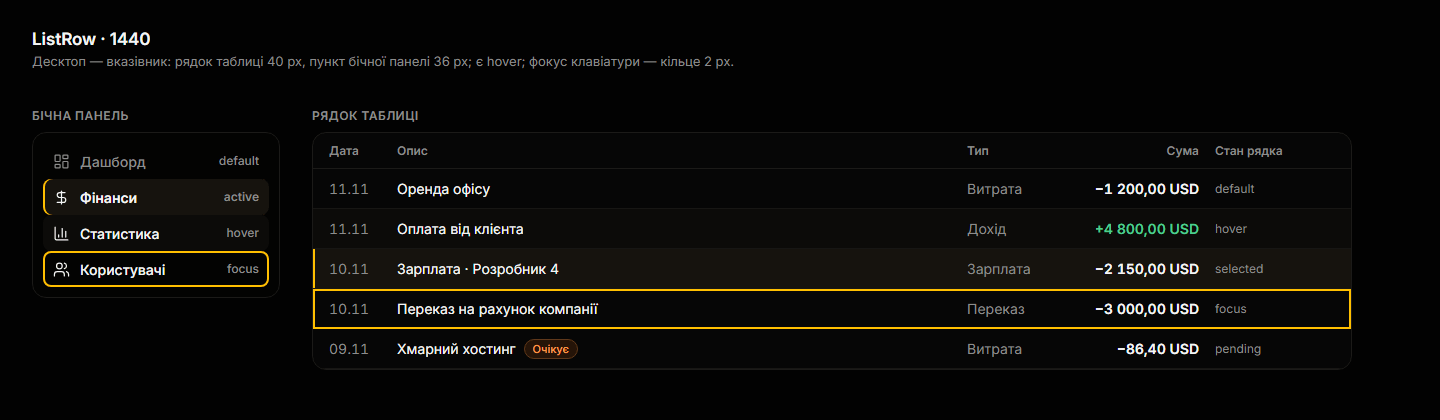
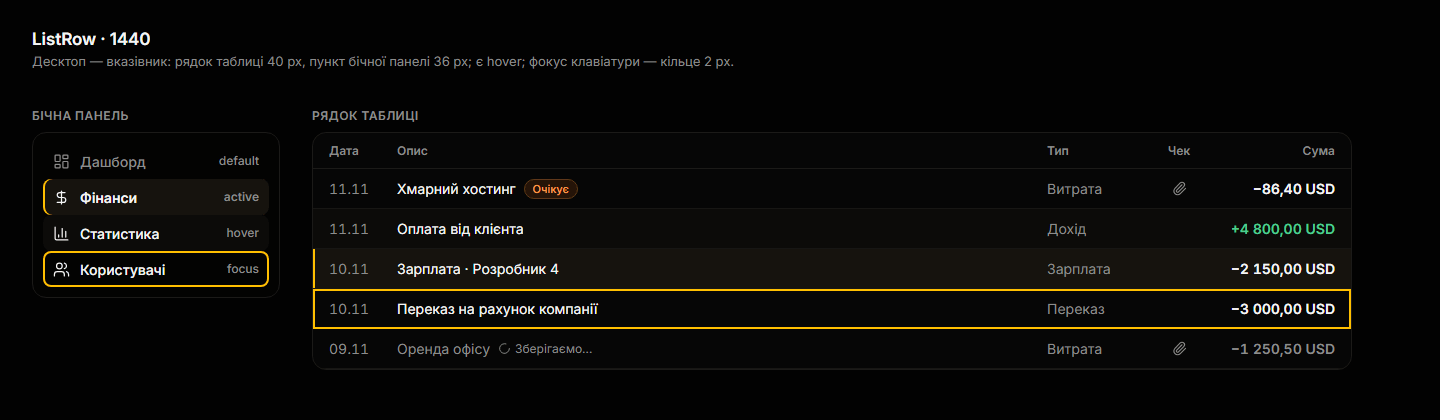
wip: docs(design): desktop table states, council r1 rules and ledger

diff --git a/docs/design/screens/_foundation/primitives-v2.md b/docs/design/screens/_foundation/primitives-v2.md
@@ -509,7 +509,7 @@ instant, sheet 280 ms up / 150 ms down, desktop 150 ms crossfade, reduced motion
 
 ## 8. Frames (all PNG under `assets/primitives-v2/`)
 
-91 frames; phones and component crops render at 2×, full 768 / 1024 / 1440 screens and the storyboard at 1×. Every
+115 frames; phones and component crops render at 2×, full 768 / 1024 / 1440 screens and the storyboard at 1×. Every
 PNG is ≤ 400 KB.
 
 | Frame                                     | Viewport (CSS px) | PNG (px)    |  KB | Round             |
@@ -605,6 +605,30 @@ PNG is ≤ 400 KB.
 | `ptr-done-375`                            | 375 × 480         | 750 × 960   |  30 | re-rendered (R12) |
 | `ptr-pulling-375`                         | 375 × 480         | 750 × 960   |  26 | re-rendered (R12) |
 | `ptr-refreshing-375`                      | 375 × 480         | 750 × 960   |  25 | re-rendered (R12) |
+| `sheet-panel-1920`                        | 1920 × 1080       | 1920 × 1080 |  73 | new (council r1)  |
+| `sheet-confirm-dialog-768`                | 768 × 1024        | 768 × 1024  |  42 | new (council r1)  |
+| `sheet-dirty-close-375`                   | 375 × 812         | 750 × 1624  |  33 | new (council r1)  |
+| `picker-popover-768`                      | 768 × 1024        | 768 × 1024  |  45 | new (council r1)  |
+| `picker-combobox-1440`                    | 1440 × 900        | 1440 × 900  |  64 | new (council r1)  |
+| `datepicker-sheet-375`                    | 375 × 812         | 750 × 1624  |  33 | new (council r1)  |
+| `datepicker-popover-768`                  | 768 × 1024        | 768 × 1024  |  36 | new (council r1)  |
+| `datepicker-popover-1440`                 | 1440 × 900        | 1440 × 900  |  46 | new (council r1)  |
+| `banner-stack-375`                        | 375 × 812         | 750 × 1624  |  56 | new (council r1)  |
+| `banner-stack-768`                        | 768 × 1024        | 768 × 1024  |  33 | new (council r1)  |
+| `banner-stack-1440`                       | 1440 × 900        | 1440 × 900  |  38 | new (council r1)  |
+| `state-empty-768`                         | 768 × 1024        | 768 × 1024  |  19 | new (council r1)  |
+| `state-error-768`                         | 768 × 1024        | 768 × 1024  |  20 | new (council r1)  |
+| `state-empty-1440`                        | 1440 × 900        | 1440 × 900  |  26 | new (council r1)  |
+| `state-error-1440`                        | 1440 × 900        | 1440 × 900  |  26 | new (council r1)  |
+| `alert-session-expired-1440`              | 1440 × 900        | 1440 × 900  |  44 | new (council r1)  |
+| `state-empty-readonly-375`                | 375 × 812         | 750 × 1624  |  22 | new (council r1)  |
+| `formfield-error-320`                     | 320 × 568         | 640 × 1136  |  16 | new (council r1)  |
+| `toast-undo-320`                          | 320 × 568         | 640 × 1136  |  41 | new (council r1)  |
+| `chart-768`                               | 768 × 1024        | 768 × 1024  |  20 | new (council r1)  |
+| `list-footer-768`                         | 768 × 1024        | 768 × 1024  |  34 | new (council r1)  |
+| `list-footer-1440`                        | 1440 × 900        | 1440 × 900  |  61 | new (council r1)  |
+| `row-menu-768`                            | 768 × 1024        | 768 × 1024  |  42 | new (council r1)  |
+| `detail-readonly-1000`                    | 1000 × 800        | 1000 × 800  |  45 | new (council r1)  |
 
 Contact sheets: `_contact-sheet.png` (phones), `_contact-sheet-wide.png` (768 / 1024 / 1440 and boards),
 `_contact-sheet-detail.png` (`chart-desktop` and `transition-storyboard` at native size).
@@ -666,3 +690,267 @@ Re-render: `node assets/src/render.mjs primitives [filter]`, then `assets/src/co
 - The 768 / 1440 toast, upload pill and skeleton frames show placement and metrics; the screen specs own
   the content.
 - The board's `M` key and the `minmax(180px, 1fr)` column capped at 280 px are settled (council R11); the interviews screen spec only places them.
+
+## 12. Council r1 rules
+
+Rules added in the council r1 fix round. Each names its finding id; the ledger below maps every id.
+
+### Picker ≥ 640 (F0-13)
+
+- **< 640:** PickerSheet (§2). **≥ 640:** a popover anchored under the field or chip, never a sheet.
+- **≤ 7 options:** a listbox with no search; rows 44 px under a coarse pointer, 36 px under a fine one
+  (`picker-popover-768`). **> 7 options:** a combobox with a search field on top; the match is bold; a
+  count line «8 з 12»; a multi-select footer «Вибрано: 1» / «Очистити» (`picker-combobox-1440`).
+- **One kind pill + picker primitive:** an unset filter chip is dashed «+ Проєкт»; once set it is a
+  solid chip «Проєкт: Альфа» (`--yellow-subtle`) with `aria-expanded` while its picker is open.
+- Keyboard: ↑ / ↓ move, Enter picks, Esc closes and returns focus to the trigger; a listbox takes
+  type-ahead. Foundation §8 holds the container rule by width.
+
+### DateField (F0-14)
+
+- A typed input `ДД.ММ.РРРР` with a trailing calendar button; the field is `role="combobox"` with
+  `aria-haspopup="dialog"`. A typed date is checked on blur; the calendar opens on the typed month.
+- Calendar: Monday first, today as a ring, the selected day filled `--primary`; «Сьогодні» picks today.
+- **Phone:** a sheet with 44 px day cells; picking a day closes the sheet («Вибір дня закриває
+  аркуш», `datepicker-sheet-375`). **Tablet:** a popover with 44 px cells over the panel
+  (`datepicker-popover-768`). **Desktop:** a popover with 36 px cells (`datepicker-popover-1440`).
+- Month-only periods keep `ui/month-picker.tsx` (shell-v2 migration map).
+
+### Banner stack (F0-15)
+
+- **Slot:** phone, under the top bar and above the large title (`banner-stack-375`); tablet, at the top
+  of the list pane (`banner-stack-768`); desktop, above the page toolbar inside main
+  (`banner-stack-1440`). The banners push content down; they never float over it.
+- **Order:** impersonation is pinned first; the others follow newest first (offline, session, terms of
+  service). **Two show**; the rest fold into one 44 px button «Ще {n}: {title of the newest folded}» /
+  «Показати» with `aria-expanded`, which expands in place.
+- **Colour:** a banner never uses the yellow unread dot. Where the navigation marks something that needs
+  action, it uses the red needs-attention dot (`--destructive`), the same dot as a money draft.
+- Under impersonation every class draws the impersonated role's navigation and pages (HR in the frames).
+
+### System states per class (F0-16)
+
+| State                                   | Phone (< 640)                                 | Tablet (640–1023)                                                   | Desktop (≥ 1024)                          |
+| --------------------------------------- | --------------------------------------------- | ------------------------------------------------------------------- | ----------------------------------------- |
+| Loading                                 | `skeleton-mobile-375`                         | `skeleton-768`                                                      | `skeleton-1440`, `skeleton-table-desktop` |
+| Empty                                   | `state-empty-375`                             | `state-empty-768`                                                   | `state-empty-1440`                        |
+| Empty, role without create              | `state-empty-readonly-375`                    | Rule: the same block, no instruction                                | Rule: the same block, no instruction      |
+| Load error                              | `state-error-375`                             | `state-error-768`                                                   | `state-error-1440`                        |
+| Offline                                 | `state-offline-375`                           | `banner-stack-768`                                                  | `banner-stack-1440`                       |
+| Impersonation                           | `state-impersonation-375`                     | `banner-stack-768`                                                  | `banner-stack-1440`                       |
+| Session expired                         | `alert-session-expired-375`                   | Rule: the centred 440 px alert dialog of the desktop, 44 px buttons | `alert-session-expired-1440`              |
+| Page kill (next boot)                   | `state-page-kill-375`, `alert-pagekill-*-375` | Rule: the same alert as a centred 440 px alert dialog               | Rule: as tablet, 36 px buttons            |
+| Save error (definite, offline, unknown) | `save-failure-*-375`                          | Rule: the same inline alert at the top of the side-panel body       | Rule: as tablet                           |
+| Unknown result check                    | the check sheet «Нові записи»                 | Rule: a centred 560 px dialog over the panel                        | `check-dialog-1024`                       |
+
+In every class the real header, search and chips stay through loading, empty and error; only the rows
+change, so nothing jumps (F0-21).
+
+### Tablet and desktop cells (F0-17, F0-18)
+
+- **Chart:** `chart-768` (segmented «3 міс» / «6 міс» / «Рік», bars, legend); `chart-desktop` with the
+  period control and the active filter as a removable chip above the charts (F0-39).
+- **List footer:** auto-load at every width; on failure an inline row «Не вдалося завантажити ще.
+  Показано 50 з 312.» / «Повторити» (`list-footer-768`, `list-footer-1440`). **Paged search** at
+  ≥ 640 is the phone rule (`search-paged-375`): results page by 50 through the same footer, and the
+  count line names loaded and total.
+- **Pull-to-refresh:** phone only. At ≥ 640 the list refreshes by the poll, on window focus and by the
+  error retry; there is no pull gesture.
+- **Section header:** the same `ListSection` in the phone list and the tablet list pane, sticky inside
+  the pane. The desktop table has no section rows: the «Дата» column replaces them.
+- **TextEditor ≥ 640:** an autosizing `textarea` (up to 12 lines, then it scrolls) inside the side panel;
+  the chip row sits inline above it, not on `visualViewport`; «Зберегти» stays in the panel footer (the
+  top-right «Зберегти» is the phone exception, foundation §8).
+- **Row menu:** ≥ 640 an anchored dropdown menu on the row's «…» (`row-menu-768`): Редагувати,
+  Дублювати, Додати чек, then a separator and «Видалити» in `--destructive` ink. < 640 the action sheet.
+
+### Width 320 (F0-19)
+
+- A field error wraps under the field and never truncates (`formfield-error-320`).
+- Below 360 the toast spans the width minus 12 px insets and sits above the FAB; the subject wraps to two
+  lines at most; the action never wraps or shrinks (`toast-undo-320`).
+
+### Dismissal (F0-05, F0-09, F0-11)
+
+| Overlay                        | Esc                    | System back              | Outside press         | Swipe                           | ✕          |
+| ------------------------------ | ---------------------- | ------------------------ | --------------------- | ------------------------------- | ---------- |
+| Phone sheet                    | closes                 | closes                   | scrim tap closes      | drag down closes                | closes     |
+| Action sheet / confirm         | = cancel               | = cancel                 | = cancel              | none                            | none       |
+| Side panel, modal (< 1440)     | closes                 | closes                   | scrim closes          | drag from the left edge (touch) | closes     |
+| Side panel, non-modal (≥ 1440) | closes if focus inside | closes                   | nothing (table works) | none                            | closes     |
+| Popover, menu, picker ≥ 640    | closes                 | closes on touch          | closes                | none                            | none       |
+| Receipt viewer                 | closes                 | closes                   | none (full screen)    | drag down past 25 % or a fling  | closes     |
+| Cmd+K, shortcut sheet          | closes                 | not applicable (desktop) | scrim closes          | none                            | sheet only |
+
+- **Back** is a history entry pushed when the overlay opens; it closes **only the top layer**.
+- **A dirty form asks first** on every exit above (Esc, back, scrim, swipe, ✕): «Вийти без
+  збереження?» / «Введене в цій формі буде втрачено.» / «Вийти» / «Залишитися», focus on «Залишитися»
+  (`sheet-dirty-close-375`; ≥ 640 the alert dialog). A clean form closes at once.
+- **Maximum depth:** two layers over the page (a panel and its confirm, a sheet and its picker). A third
+  request replaces the top layer instead of stacking. The session alert is the one exception: it may
+  sit over two layers.
+
+### Forms (F0-22)
+
+Columns follow the **container**, not the viewport: one column below 560 px of container width (every
+side panel and every sheet), two columns from 560 px (a full-page form, `formfield-768`,
+`formfield-1440`).
+
+### Lists, detail and selection (F0-24, F0-32)
+
+- **Action slot by role and state:** the detail header and the row menu hold only what the viewer may
+  do; a read-only viewer sees «Лише перегляд» in place of «Редагувати» / «Інші дії»
+  (`detail-readonly-1000`).
+- **One selection cue** everywhere: `--raised` fill + a 2 px `--primary` leading bar + `aria-current`
+  (list pane) or `aria-selected` (table).
+- **Wrap and truncation:** a row title truncates at one line; meta wraps; an amount and a percentage
+  never truncate; meta reads type · status · time, type first.
+- **Chips** that overflow scroll sideways with a 24 px end fade, so a cut chip reads as more.
+
+### Drafts and money rows (F0-35, F0-36, F0-40, F0-41)
+
+- **Precedence** (one pill slot, the row, the edit form): unknown > failed > in flight > armed > saved;
+  an edit draft ranks the same as a create draft.
+- **Amounts are signed** in rows, pills and accessible names; a sent draft shows its send time
+  (`{time}` slot in the row, the pill and the name).
+- **The pill + the pinned row are the visible error.** A failed save rolls back nothing that was
+  shown as saved; no error toast. The frames are `save-failure-*`.
+- **A success toast never covers the pill:** they stack in the same corner (shell-v2 §2).
+- **An unknown record opened read-only keeps full contrast**; only the inputs are read-only.
+- **Section totals** are per currency («−186,40 USD · −3 000,00 USDT»), never summed across currencies.
+- **Page kill:** the alert shows the marker's time and «Створити ще раз»; it shows no amount, because
+  the marker holds none (F0-40, ledger).
+- **Armed copy:** «Зберегти після завантаження чека» before the tap, «Збережеться {amount} після
+  завантаження чека» after it (F0-41).
+
+### Desktop table (F0-37)
+
+- Row states, top to bottom in `listrow-table-desktop`: default (with a status pill «Очікує»), hover,
+  selected, keyboard focus, **write pending**. A pending row keeps its place, mutes its title and
+  amount to `--muted-fg`, shows «Зберігаємо…» with a 13 px spinner after the title, and is
+  `aria-busy="true"`; it cannot be opened for edit until it settles.
+- The skeleton has the same columns and widths as the table (`skeleton-table-desktop`).
+- Below 1032 px of main, «Проєкт» leaves the columns and rides in «Опис» as muted text; nothing is
+  dropped. The status pill sits after the title in «Опис», never in its own column.
+
+### Board (F0-38)
+
+- Card meta takes two lines (role · project, then the date); it wraps, never truncates.
+- On the touch tablet the columns are 200 px: three fit whole at 768 and the fourth peeks under the end
+  fade, so a count badge is never cut (`board-768`).
+
+### Tab-bar strip (F0-39)
+
+Content under the translucent tab bar reads as motion only; nothing a user must read rests there, because
+tab-root lists end with 56 + 16 + 8 px of bottom padding (shell-v2 §2).
+
+### Strings (F0-27)
+
+`uk` is the source; `en` is written anew, not translated. Confirm titles never inflect a name: the name
+stands in quotes or before a colon («Видалити транзакцію «Оренда офісу»?», «Олена Коваль: перевести в
+«Найнято»?»). Stage vocabulary is one set everywhere. Glossary terms per `CONTEXT.md` (an Interview is
+«співбесіда», never «кандидат»).
+
+| Where               | uk                                                                                                    | en                                                                                                       |
+| ------------------- | ----------------------------------------------------------------------------------------------------- | -------------------------------------------------------------------------------------------------------- |
+| Dirty-close confirm | Вийти без збереження?                                                                                 | Leave without saving?                                                                                    |
+|                     | Введене в цій формі буде втрачено.                                                                    | What you entered in this form will be lost.                                                              |
+|                     | Вийти · Залишитися                                                                                    | Leave · Stay                                                                                             |
+| Armed save          | Зберегти після завантаження чека                                                                      | Save once the receipt uploads                                                                            |
+|                     | Збережеться {amount} після завантаження чека                                                          | {amount} will save once the receipt uploads                                                              |
+|                     | Не зберігати автоматично                                                                              | Don't save automatically                                                                                 |
+| Write pending       | Зберігаємо…                                                                                           | Saving…                                                                                                  |
+| Undo toast          | Архівовано: {name} · Скасувати                                                                        | Archived: {name} · Undo                                                                                  |
+| Session alert       | Сесія завершилася. Увійдіть знову, щоб продовжити.                                                    | Your session has ended. Sign in again to continue.                                                       |
+|                     | Увійти знову · Не зараз                                                                               | Sign in again · Not now                                                                                  |
+| Banner fold         | Ще {n}: {title} · Показати                                                                            | {n} more: {title} · Show                                                                                 |
+| Offline banner      | Немає з’єднання. Показано останні завантажені дані; збереження не пройде, введене залишиться у формі. | You're offline. Showing the last loaded data; saving won't go through, and your input stays in the form. |
+| Load error          | Не вдалося завантажити транзакції                                                                     | Couldn't load transactions                                                                               |
+|                     | Сервер не відповів. Нічого не змінено — спробуйте ще раз.                                             | The server didn't respond. Nothing has changed — try again.                                              |
+|                     | Спробувати ще                                                                                         | Try again                                                                                                |
+| Empty               | Ще немає транзакцій                                                                                   | No transactions yet                                                                                      |
+|                     | Тут з’являться доходи, витрати й перекази компанії.                                                   | Company income, expenses and transfers will appear here.                                                 |
+|                     | Додайте першу кнопкою «+».                                                                            | Add the first one with «+».                                                                              |
+|                     | Додайте першу кнопкою «Нова транзакція» або клавішею C.                                               | Add the first one with «New transaction» or the C key.                                                   |
+|                     | Щойно їх додадуть, вони будуть у цьому списку.                                                        | Once they're added, they'll show up in this list.                                                        |
+| List footer error   | Не вдалося завантажити ще. Показано 50 з 312. · Повторити                                             | Couldn't load more. Showing 50 of 312. · Retry                                                           |
+| Cmd+K, no result    | Нічого не знайдено за «{query}»                                                                       | Nothing found for “{query}”                                                                              |
+|                     | Палітра шукає дії, розділи й рядки, завантажені на цій сторінці.                                      | The palette searches actions, sections and rows loaded on this page.                                     |
+| Shortcut sheet      | Клавіатурні скорочення · Односимвольні скорочення                                                     | Keyboard shortcuts · Single-key shortcuts                                                                |
+| Read-only detail    | Лише перегляд                                                                                         | View only                                                                                                |
+| Picker              | {n} з {total} · Вибрано: {n} · Очистити                                                               | {n} of {total} · Selected: {n} · Clear                                                                   |
+| DateField           | Вибір дня закриває аркуш · Сьогодні                                                                   | Picking a day closes the sheet · Today                                                                   |
+| Field error (email) | Введіть повну адресу, наприклад name@company.com                                                      | Enter the full address, for example name@company.com                                                     |
+| Row menu            | Редагувати · Дублювати · Додати чек · Видалити                                                        | Edit · Duplicate · Add receipt · Delete                                                                  |
+| Rail «+» (several)  | Створити                                                                                              | Create                                                                                                   |
+| Interview stages    | HR-скринінг · Англійська · Технічна · Фінальна · З клієнтом · Офер                                    | HR screening · English · Technical · Final · Client · Offer                                              |
+
+The shipped catalog spells the last stage «Оффер»; the frames use «Офер» (the current orthography).
+Which one the product keeps is a copy-reviewer call in the Wave 0 implementation.
+
+### Open points (owner)
+
+The frames draw today's behaviour for each of these; none is decided here.
+
+- **Open point (owner): D-1.** A session expiry loses unsaved form input; the session alert names the
+  loss («Введене у формі «Нова співбесіда» буде втрачено.», `alert-session-expired-1440`). The proposal
+  is a local-only draft of non-money fields restored after sign-in.
+- **Open point (owner): D-2.** Sign-out and the impersonation return can drop an armed in-memory draft or
+  a receipt. The proposal is to run the same loss check as the 401 on both exits.
+- **Open point (owner): D-3.** Deleting a notification row has no confirm and no undo today. The proposal
+  is a 5 s delayed delete with «Скасувати».
+- **Open point (owner): D-4.** The desktop table has no inline edit for non-money cells; every edit opens
+  the side panel. Recorded as a known limit; the proposal is "not now".
+
+## Council r1 ledger
+
+Status: **fixed** (drawn and specified), **rule-only** (specified, no new frame needed), **not fixed**
+(with the reason).
+
+| Id    | Status    | Where                                                                                                    |
+| ----- | --------- | -------------------------------------------------------------------------------------------------------- |
+| F0-01 | fixed     | foundation §7.3 `--destructive-solid` (white 6.12:1); every filled destructive surface re-rendered       |
+| F0-02 | fixed     | desktop sidebar: one class, scrolling group list, pinned footer (`shell-touch-1180`)                     |
+| F0-03 | fixed     | §5 undo toast: 5 s, pause, ⌘Z / Ctrl+Z, subject slot, 44 px; «Скасувати» kept                            |
+| F0-04 | fixed     | key hints only under `(pointer: fine)`; `sheet-panel-768`, `tablet-rail-more-768`                        |
+| F0-05 | rule-only | §12 Dismissal table, back = top layer, maximum depth                                                     |
+| F0-06 | fixed     | non-modal ≥ 1440 panel (`sheet-panel-1440`), `sheet-panel-1920`, foundation §10                          |
+| F0-07 | fixed     | §2 one panel body; `sheet-panel-768` with ✕ 44, scrim over the rail, edge drag                           |
+| F0-08 | fixed     | `sheet-confirm-dialog-768`                                                                               |
+| F0-09 | fixed     | `sheet-dirty-close-375`; §12 Dismissal                                                                   |
+| F0-10 | fixed     | three-column sheet header, centred title; content-height detent for short sheets                         |
+| F0-11 | rule-only | §12 Dismissal: receipt viewer drag down and Esc                                                          |
+| F0-12 | fixed     | foundation §8 names the TextEditor «Зберегти» exception                                                  |
+| F0-13 | fixed     | `picker-popover-768`, `picker-combobox-1440`; foundation §8; §12                                         |
+| F0-14 | fixed     | `datepicker-sheet-375`, `datepicker-popover-768`, `datepicker-popover-1440`; §12                         |
+| F0-15 | fixed     | `banner-stack-375/768/1440`; §12; shell-v2 §2                                                            |
+| F0-16 | fixed     | §12 state table; 6 new state frames, a written rule for each remaining cell                              |
+| F0-17 | fixed     | `chart-768`, `list-footer-768`, `row-menu-768`; §12 rules for PTR, section header, TextEditor            |
+| F0-18 | fixed     | `list-footer-1440`, `state-empty-1440`, `state-error-1440`; §12 section header rule                      |
+| F0-19 | fixed     | `formfield-error-320`, `toast-undo-320`; §12                                                             |
+| F0-20 | fixed     | tablet generator: any fixed list width becomes the one pane below 900; `toast-undo-768` one pane         |
+| F0-21 | fixed     | skeletons keep the real top bar, search and chips (`skeleton-768`, `state-loading-375`)                  |
+| F0-22 | rule-only | §12 Forms: columns by container width                                                                    |
+| F0-23 | fixed     | `transition-storyboard` tablet line                                                                      |
+| F0-24 | fixed     | `tablet-rail-hr-768`, `detail-readonly-1000`, chip end fade; §12; shell-v2 §3                            |
+| F0-25 | fixed     | collapsed sidebar: search button, count, avatar footer (`desktop-sidebar-collapsed-1024`)                |
+| F0-26 | fixed     | Cmd+K filter, role «Дії», `desktop-cmdk-empty-1440`, Ctrl+K; one shortcut registry (shell-v2 §4)         |
+| F0-27 | fixed     | §12 strings table (uk + en); «Односимвольні»; «після завантаження чека»; one stage set; case-free titles |
+| F0-28 | fixed     | the annotation is out of `sheet-confirm-dialog-1024`; table state names out of `listrow-table-desktop`   |
+| F0-29 | fixed     | FAB band 72 px trailing inset (shell-v2 §2)                                                              |
+| F0-30 | rule-only | shell-v2 §2 keyboard: tab bar hides, footer on `visualViewport`, rail stays                              |
+| F0-31 | fixed     | empty copy by role and class; `state-empty-readonly-375`, `state-empty-1440`                             |
+| F0-32 | fixed     | the percentage never truncates; meta wraps, type first                                                   |
+| F0-33 | rule-only | shell-v2 §4 Shell migration map                                                                          |
+| F0-34 | fixed     | `notifications-loading-375`, `notifications-error-375`, `notifications-768`                              |
+| F0-35 | fixed     | signed amounts, `{time}` slot, precedence incl. edits, `save-failure-*`, full contrast, toast vs pill    |
+| F0-36 | fixed     | per-currency section totals (`section-header-375`)                                                       |
+| F0-37 | fixed     | write-pending row, matching skeleton, «Проєкт» in «Опис» below 1032 (`listrow-table-desktop`)            |
+| F0-38 | fixed     | two-line card meta; 200 px touch columns (`board-768`)                                                   |
+| F0-39 | fixed     | period control + filter chip on `chart-desktop`; §12 tab-bar strip rule                                  |
+| F0-40 | partial   | time + «Створити ще раз» drawn; **amount not fixed**: the page-kill marker stores no amount              |
+| F0-41 | fixed     | armed copy «після завантаження чека» in the button, the pill and the specs                               |
+| D-1   | open      | Open point (owner), §12; the frames draw today's loss                                                    |
+| D-2   | open      | Open point (owner), §12                                                                                  |
+| D-3   | open      | Open point (owner), §12                                                                                  |
+| D-4   | open      | Open point (owner), §12; known limit                                                                     |
